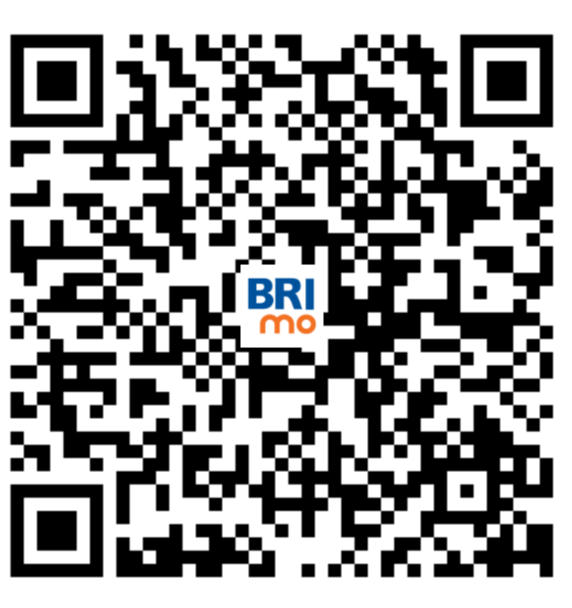
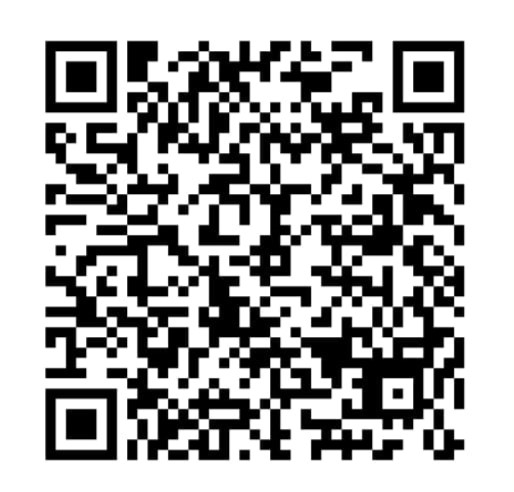
Ubah Pembayaran bank

diff --git a/templates/user/checkout.html b/templates/user/checkout.html
@@ -101,11 +101,18 @@
             </div>
             <div class="instructions">
               <h3>Petunjuk Transfer mBanking</h3>
-              <p>1. Masuk ke menu Mobile Banking BRI. Kemudian, pilih <strong>Pembayaran > BRIVA</strong>.</p>
-              <p>2. Masukkan <strong>Nomor BRIVA:7174465724</strong>.</p>
-              <p>3. Masukkan PIN Anda dan pilih <strong>Send</strong>. Apabila pesan konfirmasi untuk transaksi
-                menggunakan SMS muncul, pilih <strong>OK</strong>. Status transaksi akan dikirimkan melalui SMS dan
-                dapat dijadikan sebagai bukti pembayaran.</p>
+              <ol>
+                <li>Buka Aplikasi mBanking dan login.</li>
+                <li>Pilih Menu Transfer.</li>
+                <li>Pilih Transfer Antar Bank.</li>
+                <li>Pilih Bank Tujuan : <strong> Bank BSI. </strong></li>
+                <li>Masukkan Nomor Rekening : <strong> 7174465724. </strong></li>
+                <li><strong>Masukkan Jumlah Transfer. </strong></li>
+                <li>Konfirmasi Detail dan periksa kembali.</li>
+                <li>Lakukan Otentikasi (misalnya, OTP).</li>
+                <li>Upload Bukti Transfer di bawah</li>
+                <li>Simpan Bukti Transfer.</li>
+              </ol>
             </div>
             <div class="mb-3">
               <label for="bankProof">Upload Bukti Pembayaran</label>
